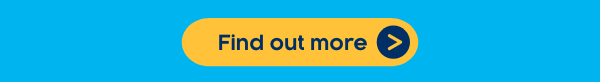
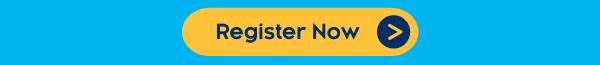
updates

Changed region(s): [[0.3, 0.0923, 0.72, 0.6769], [0.3, 0.6462, 0.72, 0.8615]]

diff --git a/tghf-v2/index.html b/tghf-v2/index.html
@@ -34,7 +34,7 @@ td.mj-full-width-mobile { width: auto !important; }
 </mj-section> --><!-- header --><!--[if mso | IE]><table align="center" border="0" cellpadding="0" cellspacing="0" class="" role="presentation" style="width:600px;" width="600" bgcolor="#00B5EF" ><tr><td style="line-height:0px;font-size:0px;mso-line-height-rule:exactly;"><![endif]--><div style="background:#00B5EF;background-color:#00B5EF;margin:0px auto;max-width:600px;"><table align="center" border="0" cellpadding="0" cellspacing="0" role="presentation" style="background:#00B5EF;background-color:#00B5EF;width:100%;"><tbody><tr><td style="direction:ltr;font-size:0px;padding:20px 0;padding-bottom:0px;padding-top:0px;text-align:center;"><!--[if mso | IE]><table role="presentation" border="0" cellpadding="0" cellspacing="0"><tr><td class="" style="vertical-align:top;width:600px;" ><![endif]--><div class="mj-column-per-100 mj-outlook-group-fix" style="font-size:0px;text-align:left;direction:ltr;display:inline-block;vertical-align:top;width:100%;"><table border="0" cellpadding="0" cellspacing="0" role="presentation" style="vertical-align:top;" width="100%"><tbody><tr><td align="center" style="font-size:0px;padding:10px 25px;padding-top:0px;padding-right:0px;padding-bottom:0px;padding-left:0px;word-break:break-word;"><table border="0" cellpadding="0" cellspacing="0" role="presentation" style="border-collapse:collapse;border-spacing:0px;"><tbody><tr><td style="width:600px;"><a href="https://www.hw.edu.my" target="_blank"><img height="auto" src="https://i.ibb.co/K7kknrC/header.png" style="border:0;display:block;outline:none;text-decoration:none;height:auto;width:100%;font-size:13px;" width="600"></a></td></tr></tbody></table></td></tr></tbody></table></div><!--[if mso | IE]></td></tr></table><![endif]--></td></tr></tbody></table></div><!--[if mso | IE]></td></tr></table><![endif]--><!-- -BANNER --><!--[if mso | IE]><table align="center" border="0" cellpadding="0" cellspacing="0" class="" role="presentation" style="width:600px;" width="600" bgcolor="#00B5EF" ><tr><td style="line-height:0px;font-size:0px;mso-line-height-rule:exactly;"><![endif]--><div style="background:#00B5EF;background-color:#00B5EF;margin:0px auto;max-width:600px;"><table align="center" border="0" cellpadding="0" cellspacing="0" role="presentation" style="background:#00B5EF;background-color:#00B5EF;width:100%;"><tbody><tr><td style="direction:ltr;font-size:0px;padding:20px 0;padding-bottom:0px;padding-top:0px;text-align:center;"><!--[if mso | IE]><table role="presentation" border="0" cellpadding="0" cellspacing="0"><tr><td class="" style="vertical-align:top;width:600px;" ><![endif]--><div class="mj-column-per-100 mj-outlook-group-fix" style="font-size:0px;text-align:left;direction:ltr;display:inline-block;vertical-align:top;width:100%;"><table border="0" cellpadding="0" cellspacing="0" role="presentation" style="vertical-align:top;" width="100%"><tbody><tr><td align="center" style="font-size:0px;padding:10px 25px;padding-top:0px;padding-right:0px;padding-bottom:0px;padding-left:0px;word-break:break-word;"><table border="0" cellpadding="0" cellspacing="0" role="presentation" style="border-collapse:collapse;border-spacing:0px;"><tbody><tr><td style="width:600px;"><img height="auto" src="https://i.ibb.co/724QP61/banner.png" style="border:0;display:block;outline:none;text-decoration:none;height:auto;width:100%;font-size:13px;" width="600"></td></tr></tbody></table></td></tr></tbody></table></div><!--[if mso | IE]></td></tr></table><![endif]--></td></tr></tbody></table></div><!--[if mso | IE]></td></tr></table><![endif]--><!-- -BODY --><!--[if mso | IE]><table align="center" border="0" cellpadding="0" cellspacing="0" class="" role="presentation" style="width:600px;" width="600" bgcolor="#00B5EF" ><tr><td style="line-height:0px;font-size:0px;mso-line-height-rule:exactly;"><![endif]--><div style="background:#00B5EF;background-color:#00B5EF;margin:0px auto;max-width:600px;"><table align="center" border="0" cellpadding="0" cellspacing="0" role="presentation" style="background:#00B5EF;background-color:#00B5EF;width:100%;"><tbody><tr><td style="border:none;direction:ltr;font-size:0px;padding:20px 0;padding-bottom:0;text-align:center;"><!--[if mso | IE]><table role="presentation" border="0" cellpadding="0" cellspacing="0"><tr><td class="" style="vertical-align:top;width:600px;" ><![endif]--><div class="mj-column-per-100 mj-outlook-group-fix" style="font-size:0px;text-align:left;direction:ltr;display:inline-block;vertical-align:top;width:100%;"><table border="0" cellpadding="0" cellspacing="0" role="presentation" style="vertical-align:top;" width="100%"><tbody><!-- <mj-text font-size="31px" font-weight="700" color="#003C71" font-family="Lato,Verdana,sans-serif" align="center" text-decoration="none;"  line-height="40px">Let's get happy together</mj-text>
   <mj-spacer height="0px" />
   <mj-text font-size="14px" font-weight="500" color="#003C71" font-family="Lato,Verdana,sans-serif" align="center" text-decoration="none;"  line-height="20px">Crack up &amp; cheer up at our Global Happiness Forum</mj-text>
-  <mj-spacer height="0px" /> --><tr><td align="center" style="font-size:0px;padding:10px 25px;padding-right:45px;padding-left:45px;word-break:break-word;"><div style="font-family:Lato,Verdana,sans-serif;font-size:14px;font-weight:300;line-height:20px;text-align:center;text-decoration:none;;color:#ffffff;">We all need happiness in our lives, and the not-so secret tip to that is laughter. When we hear a joke or get tickled by a funny moment, we feel better emotionally and physically. And the trick is to cultivate that in our daily lives.</div></td></tr><tr><td style="font-size:0px;word-break:break-word;"><div style="height:20px;line-height:20px;">&#8202;</div></td></tr><tr><td align="center" style="font-size:0px;padding:10px 25px;padding-right:45px;padding-left:45px;word-break:break-word;"><div style="font-family:Lato,Verdana,sans-serif;font-size:14px;font-weight:300;line-height:20px;text-align:center;text-decoration:none;;color:#ffffff;">For this International Day of Happiness, Heriot-Watt University Malaysia will be hosting The Global Happiness Forum. Hosted by a panel of international experts, who will share their own perspective on laugher and tips on how it can lead to a happier and fulfilling life.</div></td></tr><tr><td style="font-size:0px;word-break:break-word;"><div style="height:20px;line-height:20px;">&#8202;</div></td></tr></tbody></table></div><!--[if mso | IE]></td></tr></table><![endif]--></td></tr></tbody></table></div><!--[if mso | IE]></td></tr></table><![endif]--><!-- speakers --><!--[if mso | IE]><table align="center" border="0" cellpadding="0" cellspacing="0" class="" role="presentation" style="width:600px;" width="600" bgcolor="#ffffff" ><tr><td style="line-height:0px;font-size:0px;mso-line-height-rule:exactly;"><![endif]--><div style="background:#ffffff;background-color:#ffffff;margin:0px auto;max-width:600px;"><table align="center" border="0" cellpadding="0" cellspacing="0" role="presentation" style="background:#ffffff;background-color:#ffffff;width:100%;"><tbody><tr><td style="border:none;direction:ltr;font-size:0px;padding:20px 0;padding-bottom:0;text-align:center;"><!--[if mso | IE]><table role="presentation" border="0" cellpadding="0" cellspacing="0"><tr><td class="" style="vertical-align:top;width:600px;" ><![endif]--><div class="mj-column-per-100 mj-outlook-group-fix" style="font-size:0px;text-align:left;direction:ltr;display:inline-block;vertical-align:top;width:100%;"><table border="0" cellpadding="0" cellspacing="0" role="presentation" style="vertical-align:top;" width="100%"><tbody><tr><td style="font-size:0px;word-break:break-word;"><div style="height:0px;line-height:0px;">&#8202;</div></td></tr><tr><td align="center" style="font-size:0px;padding:10px 25px;padding-top:0px;padding-right:0px;padding-bottom:0px;padding-left:0px;word-break:break-word;"><table border="0" cellpadding="0" cellspacing="0" role="presentation" style="border-collapse:collapse;border-spacing:0px;"><tbody><tr><td style="width:600px;"><img height="auto" src="https://i.ibb.co/pPyKqZp/speaker-header.png" style="border:0;display:block;outline:none;text-decoration:none;height:auto;width:100%;font-size:13px;" width="600"></td></tr></tbody></table></td></tr><tr><td align="center" style="font-size:0px;padding:10px 25px;padding-top:0px;padding-right:0px;padding-bottom:0px;padding-left:0px;word-break:break-word;"><table border="0" cellpadding="0" cellspacing="0" role="presentation" style="border-collapse:collapse;border-spacing:0px;"><tbody><tr><td style="width:600px;"><img height="auto" src="https://i.ibb.co/nnzC3G1/speaker-1.png" style="border:0;display:block;outline:none;text-decoration:none;height:auto;width:100%;font-size:13px;" width="600"></td></tr></tbody></table></td></tr><tr><td align="center" style="font-size:0px;padding:10px 25px;padding-top:0px;padding-right:0px;padding-bottom:0px;padding-left:0px;word-break:break-word;"><table border="0" cellpadding="0" cellspacing="0" role="presentation" style="border-collapse:collapse;border-spacing:0px;"><tbody><tr><td style="width:600px;"><img height="auto" src="https://i.ibb.co/Y25pbT9/speaker-2.png" style="border:0;display:block;outline:none;text-decoration:none;height:auto;width:100%;font-size:13px;" width="600"></td></tr></tbody></table></td></tr><tr><td align="center" style="font-size:0px;padding:10px 25px;padding-top:0px;padding-right:0px;padding-bottom:0px;padding-left:0px;word-break:break-word;"><table border="0" cellpadding="0" cellspacing="0" role="presentation" style="border-collapse:collapse;border-spacing:0px;"><tbody><tr><td style="width:600px;"><img height="auto" src="https://i.ibb.co/BgzQ3QG/speaker-3.png" style="border:0;display:block;outline:none;text-decoration:none;height:auto;width:100%;font-size:13px;" width="600"></td></tr></tbody></table></td></tr><tr><td align="center" style="font-size:0px;padding:10px 25px;padding-top:10px;padding-right:0px;padding-bottom:0px;padding-left:0px;word-break:break-word;"><table border="0" cellpadding="0" cellspacing="0" role="presentation" style="border-collapse:collapse;border-spacing:0px;"><tbody><tr><td style="width:600px;"><img height="auto" src="https://i.ibb.co/dBDJsTT/gift.png" style="border:0;display:block;outline:none;text-decoration:none;height:auto;width:100%;font-size:13px;" width="600"></td></tr></tbody></table></td></tr></tbody></table></div><!--[if mso | IE]></td></tr></table><![endif]--></td></tr></tbody></table></div><!--[if mso | IE]></td></tr></table><table align="center" border="0" cellpadding="0" cellspacing="0" class="" role="presentation" style="width:600px;" width="600" bgcolor="#00B5EF" ><tr><td style="line-height:0px;font-size:0px;mso-line-height-rule:exactly;"><![endif]--><div style="background:#00B5EF;background-color:#00B5EF;margin:0px auto;max-width:600px;"><table align="center" border="0" cellpadding="0" cellspacing="0" role="presentation" style="background:#00B5EF;background-color:#00B5EF;width:100%;"><tbody><tr><td style="border:none;direction:ltr;font-size:0px;padding:20px 0;padding-bottom:0;padding-top:0;text-align:center;"><!--[if mso | IE]><table role="presentation" border="0" cellpadding="0" cellspacing="0"><tr><td class="" style="vertical-align:top;width:600px;" ><![endif]--><div class="mj-column-per-100 mj-outlook-group-fix" style="font-size:0px;text-align:left;direction:ltr;display:inline-block;vertical-align:top;width:100%;"><table border="0" cellpadding="0" cellspacing="0" role="presentation" style="vertical-align:top;" width="100%"><tbody><tr><td align="center" style="font-size:0px;padding:10px 25px;word-break:break-word;"><div style="font-family:Lato,Verdana,sans-serif;font-size:22px;font-weight:700;line-height:30px;text-align:center;text-decoration:none;;color:#ffffff;">And stay on till the end for<br>our Mystery Gift giveaway!</div></td></tr><tr><td style="font-size:0px;word-break:break-word;"><div style="height:10px;line-height:10px;">&#8202;</div></td></tr><tr><td align="center" style="font-size:0px;padding:10px 25px;padding-top:0px;padding-right:0px;padding-bottom:0px;padding-left:0px;word-break:break-word;"><table border="0" cellpadding="0" cellspacing="0" role="presentation" style="border-collapse:collapse;border-spacing:0px;"><tbody><tr><td style="width:600px;"><a href="https://intake.hw.edu.my/happiness/" target="_blank"><img height="auto" src="https://i.ibb.co/n7jX1xS/cta.png" style="border:0;display:block;outline:none;text-decoration:none;height:auto;width:100%;font-size:13px;" width="600"></a></td></tr></tbody></table></td></tr><tr><td align="center" style="font-size:0px;padding:10px 25px;word-break:break-word;"><div style="font-family:Lato,Verdana,sans-serif;font-size:16px;font-weight:300;line-height:20px;text-align:center;text-decoration:none;;color:#003C71;">Let's all laugh together towards happiness.</div></td></tr><tr><td style="font-size:0px;word-break:break-word;"><div style="height:0px;line-height:0px;">&#8202;</div></td></tr><tr><td align="center" style="font-size:0px;padding:10px 25px;padding-top:0px;padding-right:0px;padding-bottom:0px;padding-left:0px;word-break:break-word;"><table border="0" cellpadding="0" cellspacing="0" role="presentation" style="border-collapse:collapse;border-spacing:0px;"><tbody><tr><td style="width:600px;"><img height="auto" src="https://i.ibb.co/SPcVycK/tnc.png" style="border:0;display:block;outline:none;text-decoration:none;height:auto;width:100%;font-size:13px;" width="600"></td></tr></tbody></table></td></tr></tbody></table></div><!--[if mso | IE]></td></tr></table><![endif]--></td></tr></tbody></table></div><!--[if mso | IE]></td></tr></table><![endif]--><!-- -SOCIAL --><!--[if mso | IE]><table align="center" border="0" cellpadding="0" cellspacing="0" class="" role="presentation" style="width:600px;" width="600" bgcolor="#003C71" ><tr><td style="line-height:0px;font-size:0px;mso-line-height-rule:exactly;"><![endif]--><div style="background:#003C71;background-color:#003C71;margin:0px auto;max-width:600px;"><table align="center" border="0" cellpadding="0" cellspacing="0" role="presentation" style="background:#003C71;background-color:#003C71;width:100%;"><tbody><tr><td style="direction:ltr;font-size:0px;padding:20px 0;padding-bottom:0px;padding-top:20px;text-align:center;"><!--[if mso | IE]><table role="presentation" border="0" cellpadding="0" cellspacing="0"><tr><td class="" style="vertical-align:top;width:600px;" ><![endif]--><div class="mj-column-per-100 mj-outlook-group-fix" style="font-size:0px;text-align:left;direction:ltr;display:inline-block;vertical-align:top;width:100%;"><table border="0" cellpadding="0" cellspacing="0" role="presentation" width="100%"><tbody><tr><td style="vertical-align:top;padding-right:0px;padding-bottom:0px;padding-left:0px;"><table border="0" cellpadding="0" cellspacing="0" role="presentation" width="100%"><tbody><tr><td align="center" style="font-size:0px;padding:10px 25px;word-break:break-word;"><div style="font-family:Lato,Verdana,sans-serif;font-size:14px;font-weight:900;line-height:18px;text-align:center;text-decoration:none;;color:#ffffff;">Follow us on</div></td></tr></tbody></table></td></tr></tbody></table></div><!--[if mso | IE]></td></tr></table><![endif]--></td></tr></tbody></table></div><!--[if mso | IE]></td></tr></table><![endif]--><!-- -social --><!--[if mso | IE]><table align="center" border="0" cellpadding="0" cellspacing="0" class="" role="presentation" style="width:600px;" width="600" bgcolor="#003C71" ><tr><td style="line-height:0px;font-size:0px;mso-line-height-rule:exactly;"><![endif]--><div style="background:#003C71;background-color:#003C71;margin:0px auto;max-width:600px;"><table align="center" border="0" cellpadding="0" cellspacing="0" role="presentation" style="background:#003C71;background-color:#003C71;width:100%;"><tbody><tr><td style="direction:ltr;font-size:0px;padding:20px 0;padding-bottom:0px;padding-left:100px;padding-right:100px;padding-top:5px;text-align:center;"><!--[if mso | IE]><table role="presentation" border="0" cellpadding="0" cellspacing="0"><tr><td class="" style="vertical-align:top;width:400px;" ><![endif]--><div class="mj-column-per-100 mj-outlook-group-fix" style="font-size:0px;text-align:left;direction:ltr;display:inline-block;vertical-align:top;width:100%;"><table border="0" cellpadding="0" cellspacing="0" role="presentation" width="100%"><tbody><tr><td style="vertical-align:top;padding:0;"><table border="0" cellpadding="0" cellspacing="0" role="presentation" width="100%"><tbody><tr><td align="center" style="font-size:0px;padding:0;word-break:break-word;"><!--[if mso | IE]><table align="center" border="0" cellpadding="0" cellspacing="0" role="presentation" ><tr><td><![endif]--><table align="center" border="0" cellpadding="0" cellspacing="0" role="presentation" style="float:none;display:inline-table;"><tbody><tr><td style="padding:0 15px;vertical-align:middle;"><table border="0" cellpadding="0" cellspacing="0" role="presentation" style="border-radius:3px;width:40px;"><tbody><tr><td style="font-size:0;height:40px;vertical-align:middle;width:40px;"><a href="https://www.facebook.com/hwumalaysia" target="_blank"><img height="40" src="https://i.ibb.co/MRqV549/facebook.png" style="border-radius:3px;display:block;" width="40"></a></td></tr></tbody></table></td></tr></tbody></table><!--[if mso | IE]></td><td><![endif]--><table align="center" border="0" cellpadding="0" cellspacing="0" role="presentation" style="float:none;display:inline-table;"><tbody><tr><td style="padding:0 15px;vertical-align:middle;"><table border="0" cellpadding="0" cellspacing="0" role="presentation" style="border-radius:3px;width:40px;"><tbody><tr><td style="font-size:0;height:40px;vertical-align:middle;width:40px;"><a href="https://www.linkedin.com/school/heriot-watt-university-malaysia/" target="_blank"><img height="40" src="https://i.ibb.co/bXz0hVm/linkedin.png" style="border-radius:3px;display:block;" width="40"></a></td></tr></tbody></table></td></tr></tbody></table><!--[if mso | IE]></td><td><![endif]--><table align="center" border="0" cellpadding="0" cellspacing="0" role="presentation" style="float:none;display:inline-table;"><tbody><tr><td style="padding:0 15px;vertical-align:middle;"><table border="0" cellpadding="0" cellspacing="0" role="presentation" style="border-radius:3px;width:40px;"><tbody><tr><td style="font-size:0;height:40px;vertical-align:middle;width:40px;"><a href="https://www.instagram.com/heriotwattmalaysia/" target="_blank"><img height="40" src="https://i.ibb.co/84bZ14T/instagram.png" style="border-radius:3px;display:block;" width="40"></a></td></tr></tbody></table></td></tr></tbody></table><!--[if mso | IE]></td><td><![endif]--><table align="center" border="0" cellpadding="0" cellspacing="0" role="presentation" style="float:none;display:inline-table;"><tbody><tr><td style="padding:0 15px;vertical-align:middle;"><table border="0" cellpadding="0" cellspacing="0" role="presentation" style="border-radius:3px;width:40px;"><tbody><tr><td style="font-size:0;height:40px;vertical-align:middle;width:40px;"><a href="https://www.youtube.com/channel/UCF8UPw6wztmd3hg6JNA_KLg" target="_blank"><img height="40" src="https://i.ibb.co/p123DGL/youtube.png" style="border-radius:3px;display:block;" width="40"></a></td></tr></tbody></table></td></tr></tbody></table><!--[if mso | IE]></td></tr></table><![endif]--></td></tr></tbody></table></td></tr></tbody></table></div><!--[if mso | IE]></td><![endif]--><!-- <mj-column width="25%">
+  <mj-spacer height="0px" /> --><tr><td align="center" style="font-size:0px;padding:10px 25px;padding-right:45px;padding-left:45px;word-break:break-word;"><div style="font-family:Lato,Verdana,sans-serif;font-size:14px;font-weight:300;line-height:20px;text-align:center;text-decoration:none;;color:#ffffff;">We all need happiness in our lives, and the not-so secret tip to that is laughter. When we hear a joke or get tickled by a funny moment, we feel better emotionally and physically. And the trick is to cultivate that in our daily lives.</div></td></tr><tr><td style="font-size:0px;word-break:break-word;"><div style="height:20px;line-height:20px;">&#8202;</div></td></tr><tr><td align="center" style="font-size:0px;padding:10px 25px;padding-right:45px;padding-left:45px;word-break:break-word;"><div style="font-family:Lato,Verdana,sans-serif;font-size:14px;font-weight:300;line-height:20px;text-align:center;text-decoration:none;;color:#ffffff;">For this International Day of Happiness, Heriot-Watt University Malaysia will be hosting The Global Happiness Forum. Hosted by a panel of international experts, who will share their own perspective on laugher and tips on how it can lead to a happier and fulfilling life.</div></td></tr><tr><td style="font-size:0px;word-break:break-word;"><div style="height:20px;line-height:20px;">&#8202;</div></td></tr></tbody></table></div><!--[if mso | IE]></td></tr></table><![endif]--></td></tr></tbody></table></div><!--[if mso | IE]></td></tr></table><![endif]--><!-- speakers --><!--[if mso | IE]><table align="center" border="0" cellpadding="0" cellspacing="0" class="" role="presentation" style="width:600px;" width="600" bgcolor="#ffffff" ><tr><td style="line-height:0px;font-size:0px;mso-line-height-rule:exactly;"><![endif]--><div style="background:#ffffff;background-color:#ffffff;margin:0px auto;max-width:600px;"><table align="center" border="0" cellpadding="0" cellspacing="0" role="presentation" style="background:#ffffff;background-color:#ffffff;width:100%;"><tbody><tr><td style="border:none;direction:ltr;font-size:0px;padding:20px 0;padding-bottom:0;text-align:center;"><!--[if mso | IE]><table role="presentation" border="0" cellpadding="0" cellspacing="0"><tr><td class="" style="vertical-align:top;width:600px;" ><![endif]--><div class="mj-column-per-100 mj-outlook-group-fix" style="font-size:0px;text-align:left;direction:ltr;display:inline-block;vertical-align:top;width:100%;"><table border="0" cellpadding="0" cellspacing="0" role="presentation" style="vertical-align:top;" width="100%"><tbody><tr><td style="font-size:0px;word-break:break-word;"><div style="height:0px;line-height:0px;">&#8202;</div></td></tr><tr><td align="center" style="font-size:0px;padding:10px 25px;padding-top:0px;padding-right:0px;padding-bottom:0px;padding-left:0px;word-break:break-word;"><table border="0" cellpadding="0" cellspacing="0" role="presentation" style="border-collapse:collapse;border-spacing:0px;"><tbody><tr><td style="width:600px;"><img height="auto" src="https://i.ibb.co/pPyKqZp/speaker-header.png" style="border:0;display:block;outline:none;text-decoration:none;height:auto;width:100%;font-size:13px;" width="600"></td></tr></tbody></table></td></tr><tr><td align="center" style="font-size:0px;padding:10px 25px;padding-top:0px;padding-right:0px;padding-bottom:0px;padding-left:0px;word-break:break-word;"><table border="0" cellpadding="0" cellspacing="0" role="presentation" style="border-collapse:collapse;border-spacing:0px;"><tbody><tr><td style="width:600px;"><img height="auto" src="https://i.ibb.co/nnzC3G1/speaker-1.png" style="border:0;display:block;outline:none;text-decoration:none;height:auto;width:100%;font-size:13px;" width="600"></td></tr></tbody></table></td></tr><tr><td align="center" style="font-size:0px;padding:10px 25px;padding-top:0px;padding-right:0px;padding-bottom:0px;padding-left:0px;word-break:break-word;"><table border="0" cellpadding="0" cellspacing="0" role="presentation" style="border-collapse:collapse;border-spacing:0px;"><tbody><tr><td style="width:600px;"><img height="auto" src="https://i.ibb.co/Y25pbT9/speaker-2.png" style="border:0;display:block;outline:none;text-decoration:none;height:auto;width:100%;font-size:13px;" width="600"></td></tr></tbody></table></td></tr><tr><td align="center" style="font-size:0px;padding:10px 25px;padding-top:0px;padding-right:0px;padding-bottom:0px;padding-left:0px;word-break:break-word;"><table border="0" cellpadding="0" cellspacing="0" role="presentation" style="border-collapse:collapse;border-spacing:0px;"><tbody><tr><td style="width:600px;"><img height="auto" src="https://i.ibb.co/BgzQ3QG/speaker-3.png" style="border:0;display:block;outline:none;text-decoration:none;height:auto;width:100%;font-size:13px;" width="600"></td></tr></tbody></table></td></tr><tr><td style="font-size:0px;word-break:break-word;"><div style="height:50px;line-height:50px;">&#8202;</div></td></tr></tbody></table></div><!--[if mso | IE]></td></tr></table><![endif]--></td></tr></tbody></table></div><!--[if mso | IE]></td></tr></table><table align="center" border="0" cellpadding="0" cellspacing="0" class="" role="presentation" style="width:600px;" width="600" bgcolor="#00B5EF" ><tr><td style="line-height:0px;font-size:0px;mso-line-height-rule:exactly;"><![endif]--><div style="background:#00B5EF;background-color:#00B5EF;margin:0px auto;max-width:600px;"><table align="center" border="0" cellpadding="0" cellspacing="0" role="presentation" style="background:#00B5EF;background-color:#00B5EF;width:100%;"><tbody><tr><td style="border:none;direction:ltr;font-size:0px;padding:20px 0;padding-bottom:0;padding-top:0;text-align:center;"><!--[if mso | IE]><table role="presentation" border="0" cellpadding="0" cellspacing="0"><tr><td class="" style="vertical-align:top;width:600px;" ><![endif]--><div class="mj-column-per-100 mj-outlook-group-fix" style="font-size:0px;text-align:left;direction:ltr;display:inline-block;vertical-align:top;width:100%;"><table border="0" cellpadding="0" cellspacing="0" role="presentation" style="vertical-align:top;" width="100%"><tbody><tr><td align="center" style="font-size:0px;padding:10px 25px;padding-top:10px;padding-right:0px;padding-bottom:0px;padding-left:0px;word-break:break-word;"><table border="0" cellpadding="0" cellspacing="0" role="presentation" style="border-collapse:collapse;border-spacing:0px;"><tbody><tr><td style="width:600px;"><img height="auto" src="https://i.ibb.co/ydDxRkm/event.png" style="border:0;display:block;outline:none;text-decoration:none;height:auto;width:100%;font-size:13px;" width="600"></td></tr></tbody></table></td></tr><tr><td align="center" style="font-size:0px;padding:10px 25px;padding-top:10px;padding-right:0px;padding-bottom:0px;padding-left:0px;word-break:break-word;"><table border="0" cellpadding="0" cellspacing="0" role="presentation" style="border-collapse:collapse;border-spacing:0px;"><tbody><tr><td style="width:600px;"><img height="auto" src="https://i.ibb.co/W0hzQ13/gift-1.png" style="border:0;display:block;outline:none;text-decoration:none;height:auto;width:100%;font-size:13px;" width="600"></td></tr></tbody></table></td></tr><tr><td align="center" style="font-size:0px;padding:10px 25px;word-break:break-word;"><div style="font-family:Lato,Verdana,sans-serif;font-size:22px;font-weight:700;line-height:30px;text-align:center;text-decoration:none;;color:#ffffff;">And stay on till the end for<br>our Mystery Gift giveaway!</div></td></tr><tr><td style="font-size:0px;word-break:break-word;"><div style="height:10px;line-height:10px;">&#8202;</div></td></tr><tr><td align="center" style="font-size:0px;padding:10px 25px;padding-top:0px;padding-right:0px;padding-bottom:0px;padding-left:0px;word-break:break-word;"><table border="0" cellpadding="0" cellspacing="0" role="presentation" style="border-collapse:collapse;border-spacing:0px;"><tbody><tr><td style="width:600px;"><a href="https://intake.hw.edu.my/happiness/" target="_blank"><img height="auto" src="https://i.ibb.co/hX9qCbF/cta.png" style="border:0;display:block;outline:none;text-decoration:none;height:auto;width:100%;font-size:13px;" width="600"></a></td></tr></tbody></table></td></tr><tr><td align="center" style="font-size:0px;padding:10px 25px;word-break:break-word;"><div style="font-family:Lato,Verdana,sans-serif;font-size:16px;font-weight:300;line-height:20px;text-align:center;text-decoration:none;;color:#003C71;">Let's all laugh together towards happiness.</div></td></tr><tr><td style="font-size:0px;word-break:break-word;"><div style="height:0px;line-height:0px;">&#8202;</div></td></tr><tr><td align="center" style="font-size:0px;padding:10px 25px;padding-top:0px;padding-right:0px;padding-bottom:0px;padding-left:0px;word-break:break-word;"><table border="0" cellpadding="0" cellspacing="0" role="presentation" style="border-collapse:collapse;border-spacing:0px;"><tbody><tr><td style="width:600px;"><img height="auto" src="https://i.ibb.co/SPcVycK/tnc.png" style="border:0;display:block;outline:none;text-decoration:none;height:auto;width:100%;font-size:13px;" width="600"></td></tr></tbody></table></td></tr></tbody></table></div><!--[if mso | IE]></td></tr></table><![endif]--></td></tr></tbody></table></div><!--[if mso | IE]></td></tr></table><![endif]--><!-- -SOCIAL --><!--[if mso | IE]><table align="center" border="0" cellpadding="0" cellspacing="0" class="" role="presentation" style="width:600px;" width="600" bgcolor="#003C71" ><tr><td style="line-height:0px;font-size:0px;mso-line-height-rule:exactly;"><![endif]--><div style="background:#003C71;background-color:#003C71;margin:0px auto;max-width:600px;"><table align="center" border="0" cellpadding="0" cellspacing="0" role="presentation" style="background:#003C71;background-color:#003C71;width:100%;"><tbody><tr><td style="direction:ltr;font-size:0px;padding:20px 0;padding-bottom:0px;padding-top:20px;text-align:center;"><!--[if mso | IE]><table role="presentation" border="0" cellpadding="0" cellspacing="0"><tr><td class="" style="vertical-align:top;width:600px;" ><![endif]--><div class="mj-column-per-100 mj-outlook-group-fix" style="font-size:0px;text-align:left;direction:ltr;display:inline-block;vertical-align:top;width:100%;"><table border="0" cellpadding="0" cellspacing="0" role="presentation" width="100%"><tbody><tr><td style="vertical-align:top;padding-right:0px;padding-bottom:0px;padding-left:0px;"><table border="0" cellpadding="0" cellspacing="0" role="presentation" width="100%"><tbody><tr><td align="center" style="font-size:0px;padding:10px 25px;word-break:break-word;"><div style="font-family:Lato,Verdana,sans-serif;font-size:14px;font-weight:900;line-height:18px;text-align:center;text-decoration:none;;color:#ffffff;">Follow us on</div></td></tr></tbody></table></td></tr></tbody></table></div><!--[if mso | IE]></td></tr></table><![endif]--></td></tr></tbody></table></div><!--[if mso | IE]></td></tr></table><![endif]--><!-- -social --><!--[if mso | IE]><table align="center" border="0" cellpadding="0" cellspacing="0" class="" role="presentation" style="width:600px;" width="600" bgcolor="#003C71" ><tr><td style="line-height:0px;font-size:0px;mso-line-height-rule:exactly;"><![endif]--><div style="background:#003C71;background-color:#003C71;margin:0px auto;max-width:600px;"><table align="center" border="0" cellpadding="0" cellspacing="0" role="presentation" style="background:#003C71;background-color:#003C71;width:100%;"><tbody><tr><td style="direction:ltr;font-size:0px;padding:20px 0;padding-bottom:0px;padding-left:100px;padding-right:100px;padding-top:5px;text-align:center;"><!--[if mso | IE]><table role="presentation" border="0" cellpadding="0" cellspacing="0"><tr><td class="" style="vertical-align:top;width:400px;" ><![endif]--><div class="mj-column-per-100 mj-outlook-group-fix" style="font-size:0px;text-align:left;direction:ltr;display:inline-block;vertical-align:top;width:100%;"><table border="0" cellpadding="0" cellspacing="0" role="presentation" width="100%"><tbody><tr><td style="vertical-align:top;padding:0;"><table border="0" cellpadding="0" cellspacing="0" role="presentation" width="100%"><tbody><tr><td align="center" style="font-size:0px;padding:0;word-break:break-word;"><!--[if mso | IE]><table align="center" border="0" cellpadding="0" cellspacing="0" role="presentation" ><tr><td><![endif]--><table align="center" border="0" cellpadding="0" cellspacing="0" role="presentation" style="float:none;display:inline-table;"><tbody><tr><td style="padding:0 15px;vertical-align:middle;"><table border="0" cellpadding="0" cellspacing="0" role="presentation" style="border-radius:3px;width:40px;"><tbody><tr><td style="font-size:0;height:40px;vertical-align:middle;width:40px;"><a href="https://www.facebook.com/hwumalaysia" target="_blank"><img height="40" src="https://i.ibb.co/MRqV549/facebook.png" style="border-radius:3px;display:block;" width="40"></a></td></tr></tbody></table></td></tr></tbody></table><!--[if mso | IE]></td><td><![endif]--><table align="center" border="0" cellpadding="0" cellspacing="0" role="presentation" style="float:none;display:inline-table;"><tbody><tr><td style="padding:0 15px;vertical-align:middle;"><table border="0" cellpadding="0" cellspacing="0" role="presentation" style="border-radius:3px;width:40px;"><tbody><tr><td style="font-size:0;height:40px;vertical-align:middle;width:40px;"><a href="https://www.linkedin.com/school/heriot-watt-university-malaysia/" target="_blank"><img height="40" src="https://i.ibb.co/bXz0hVm/linkedin.png" style="border-radius:3px;display:block;" width="40"></a></td></tr></tbody></table></td></tr></tbody></table><!--[if mso | IE]></td><td><![endif]--><table align="center" border="0" cellpadding="0" cellspacing="0" role="presentation" style="float:none;display:inline-table;"><tbody><tr><td style="padding:0 15px;vertical-align:middle;"><table border="0" cellpadding="0" cellspacing="0" role="presentation" style="border-radius:3px;width:40px;"><tbody><tr><td style="font-size:0;height:40px;vertical-align:middle;width:40px;"><a href="https://www.instagram.com/heriotwattmalaysia/" target="_blank"><img height="40" src="https://i.ibb.co/84bZ14T/instagram.png" style="border-radius:3px;display:block;" width="40"></a></td></tr></tbody></table></td></tr></tbody></table><!--[if mso | IE]></td><td><![endif]--><table align="center" border="0" cellpadding="0" cellspacing="0" role="presentation" style="float:none;display:inline-table;"><tbody><tr><td style="padding:0 15px;vertical-align:middle;"><table border="0" cellpadding="0" cellspacing="0" role="presentation" style="border-radius:3px;width:40px;"><tbody><tr><td style="font-size:0;height:40px;vertical-align:middle;width:40px;"><a href="https://www.youtube.com/channel/UCF8UPw6wztmd3hg6JNA_KLg" target="_blank"><img height="40" src="https://i.ibb.co/p123DGL/youtube.png" style="border-radius:3px;display:block;" width="40"></a></td></tr></tbody></table></td></tr></tbody></table><!--[if mso | IE]></td></tr></table><![endif]--></td></tr></tbody></table></td></tr></tbody></table></div><!--[if mso | IE]></td><![endif]--><!-- <mj-column width="25%">
      <mj-image href="https://www.facebook.com/hwumalaysia" src="https://i.ibb.co/MRqV549/facebook.png" alt="facebook logo" width="40px" padding="0 0 0px 0"></mj-image>
    </mj-column>
    <mj-column width="25%">
